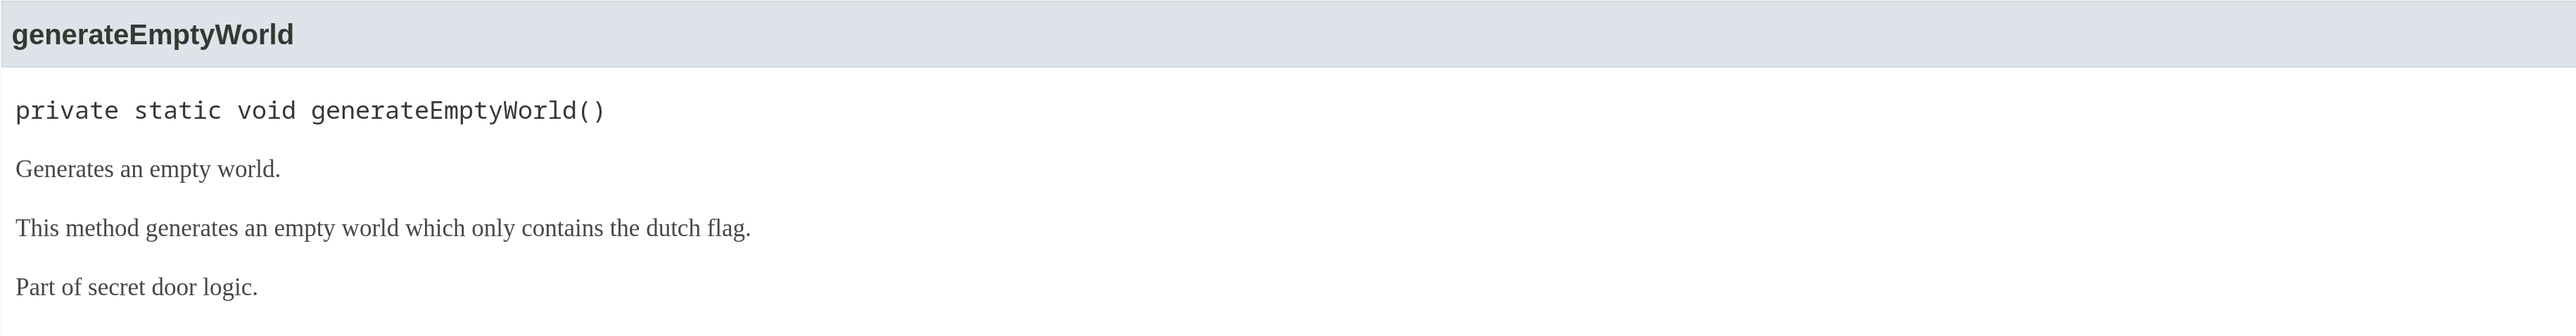
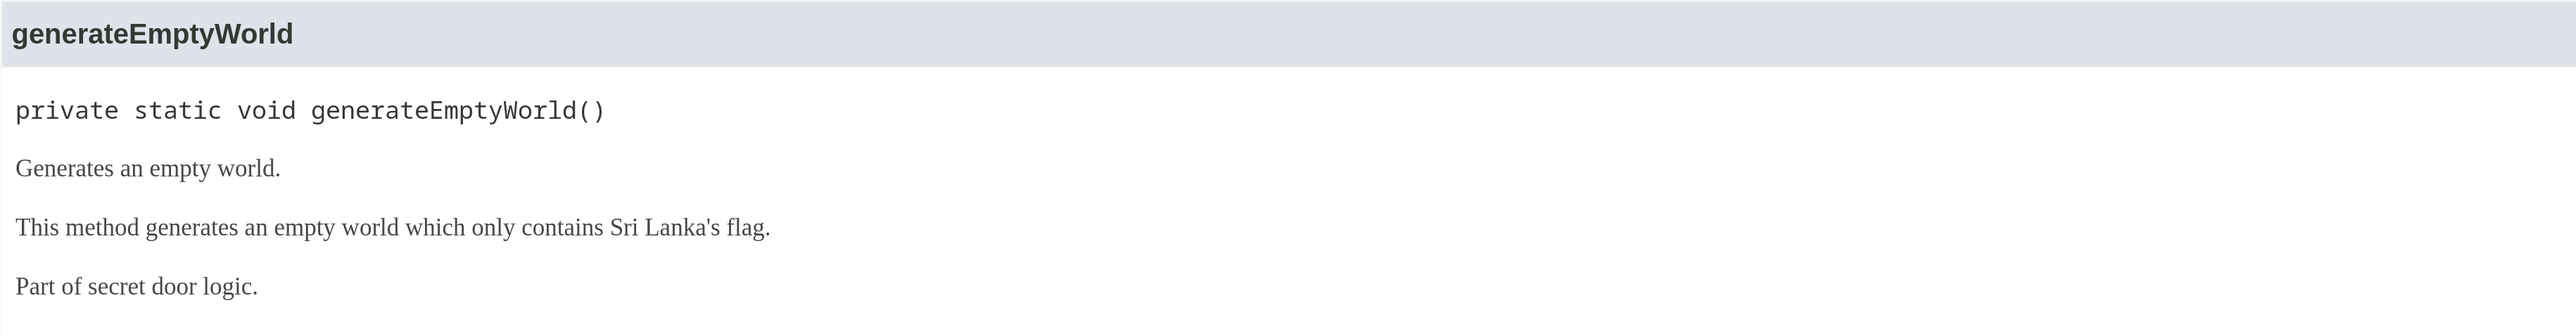
Update docs

diff --git a/um-submission/docs/html/JavaCraft.html b/um-submission/docs/html/JavaCraft.html
@@ -1,7 +1,7 @@
 <!DOCTYPE HTML>
 <html lang="en">
 <head>
-<!-- Generated by javadoc (21) on Sun Oct 22 16:06:30 CEST 2023 -->
+<!-- Generated by javadoc (21) on Sun Oct 22 17:34:51 CEST 2023 -->
 <title>JavaCraft</title>
 <meta name="viewport" content="width=device-width, initial-scale=1">
 <meta http-equiv="Content-Type" content="text/html; charset=utf-8">
@@ -90,6 +90,7 @@ loadScripts(document, 'script');</script>
 <hr>
 <div class="type-signature"><span class="modifiers">public class </span><span class="element-name type-name-label">JavaCraft</span>
 <span class="extends-implements">extends <a href="https://docs.oracle.com/en/java/javase/21/docs/api/java.base/java/lang/Object.html" title="class or interface in java.lang" class="external-link">Object</a></span></div>
+<div class="block">Main game class.</div>
 </section>
 <section class="summary">
 <ul class="summary-list">
@@ -1353,7 +1354,7 @@ loadScripts(document, 'script');</script>
 <div class="member-signature"><span class="modifiers">private static</span>&nbsp;<span class="return-type">void</span>&nbsp;<span class="element-name">generateEmptyWorld</span>()</div>
 <div class="block">Generates an empty world.
  <p>
- This method generates an empty world which only contains the dutch flag.
+ This method generates an empty world which only contains Sri Lanka's flag.
  <p>
  Part of secret door logic.</div>
 </section>

diff --git a/um-submission/docs/html/allclasses-index.html b/um-submission/docs/html/allclasses-index.html
@@ -1,7 +1,7 @@
 <!DOCTYPE HTML>
 <html lang="en">
 <head>
-<!-- Generated by javadoc (21) on Sun Oct 22 16:06:30 CEST 2023 -->
+<!-- Generated by javadoc (21) on Sun Oct 22 17:34:51 CEST 2023 -->
 <title>All Classes and Interfaces</title>
 <meta name="viewport" content="width=device-width, initial-scale=1">
 <meta http-equiv="Content-Type" content="text/html; charset=utf-8">
@@ -55,7 +55,9 @@ loadScripts(document, 'script');</script>
 <div class="table-header col-first">Class</div>
 <div class="table-header col-last">Description</div>
 <div class="col-first even-row-color all-classes-table all-classes-table-tab2"><a href="JavaCraft.html" title="class in Unnamed Package">JavaCraft</a></div>
-<div class="col-last even-row-color all-classes-table all-classes-table-tab2">&nbsp;</div>
+<div class="col-last even-row-color all-classes-table all-classes-table-tab2">
+<div class="block">Main game class.</div>
+</div>
 </div>
 </div>
 </main>

diff --git a/um-submission/docs/html/index-all.html b/um-submission/docs/html/index-all.html
@@ -1,7 +1,7 @@
 <!DOCTYPE HTML>
 <html lang="en">
 <head>
-<!-- Generated by javadoc (21) on Sun Oct 22 16:06:30 CEST 2023 -->
+<!-- Generated by javadoc (21) on Sun Oct 22 17:34:51 CEST 2023 -->
 <title>Index</title>
 <meta name="viewport" content="width=device-width, initial-scale=1">
 <meta http-equiv="Content-Type" content="text/html; charset=utf-8">
@@ -325,7 +325,9 @@ loadScripts(document, 'script');</script>
 <h2 class="title" id="I:J">J</h2>
 <dl class="index">
 <dt><a href="JavaCraft.html" class="type-name-link" title="class in Unnamed Package">JavaCraft</a> - Class in <a href="package-summary.html">Unnamed Package</a></dt>
-<dd>&nbsp;</dd>
+<dd>
+<div class="block">Main game class.</div>
+</dd>
 <dt><a href="JavaCraft.html#%3Cinit%3E()" class="member-name-link">JavaCraft()</a> - Constructor for class <a href="JavaCraft.html" title="class in Unnamed Package">JavaCraft</a></dt>
 <dd>&nbsp;</dd>
 </dl>

diff --git a/um-submission/docs/html/package-summary.html b/um-submission/docs/html/package-summary.html
@@ -1,7 +1,7 @@
 <!DOCTYPE HTML>
 <html lang="en">
 <head>
-<!-- Generated by javadoc (21) on Sun Oct 22 16:06:30 CEST 2023 -->
+<!-- Generated by javadoc (21) on Sun Oct 22 17:34:51 CEST 2023 -->
 <title>Unnamed Package</title>
 <meta name="viewport" content="width=device-width, initial-scale=1">
 <meta http-equiv="Content-Type" content="text/html; charset=utf-8">
@@ -76,7 +76,9 @@ loadScripts(document, 'script');</script>
 <div class="table-header col-first">Class</div>
 <div class="table-header col-last">Description</div>
 <div class="col-first even-row-color class-summary class-summary-tab2"><a href="JavaCraft.html" title="class in Unnamed Package">JavaCraft</a></div>
-<div class="col-last even-row-color class-summary class-summary-tab2">&nbsp;</div>
+<div class="col-last even-row-color class-summary class-summary-tab2">
+<div class="block">Main game class.</div>
+</div>
 </div>
 </div>
 </li>

diff --git a/um-submission/docs/html/index.html b/um-submission/docs/html/index.html
@@ -1,7 +1,7 @@
 <!DOCTYPE HTML>
 <html lang="en">
 <head>
-<!-- Generated by javadoc (21) on Sun Oct 22 16:06:30 CEST 2023 -->
+<!-- Generated by javadoc (21) on Sun Oct 22 17:34:51 CEST 2023 -->
 <title>Generated Documentation (Untitled)</title>
 <meta name="viewport" content="width=device-width, initial-scale=1">
 <meta http-equiv="Content-Type" content="text/html; charset=utf-8">

diff --git a/um-submission/docs/html/constant-values.html b/um-submission/docs/html/constant-values.html
@@ -1,7 +1,7 @@
 <!DOCTYPE HTML>
 <html lang="en">
 <head>
-<!-- Generated by javadoc (21) on Sun Oct 22 16:06:30 CEST 2023 -->
+<!-- Generated by javadoc (21) on Sun Oct 22 17:34:51 CEST 2023 -->
 <title>Constant Field Values</title>
 <meta name="viewport" content="width=device-width, initial-scale=1">
 <meta http-equiv="Content-Type" content="text/html; charset=utf-8">

diff --git a/um-submission/docs/html/package-tree.html b/um-submission/docs/html/package-tree.html
@@ -1,7 +1,7 @@
 <!DOCTYPE HTML>
 <html lang="en">
 <head>
-<!-- Generated by javadoc (21) on Sun Oct 22 16:06:30 CEST 2023 -->
+<!-- Generated by javadoc (21) on Sun Oct 22 17:34:51 CEST 2023 -->
 <title> Class Hierarchy</title>
 <meta name="viewport" content="width=device-width, initial-scale=1">
 <meta http-equiv="Content-Type" content="text/html; charset=utf-8">

diff --git a/um-submission/docs/html/overview-tree.html b/um-submission/docs/html/overview-tree.html
@@ -1,7 +1,7 @@
 <!DOCTYPE HTML>
 <html lang="en">
 <head>
-<!-- Generated by javadoc (21) on Sun Oct 22 16:06:30 CEST 2023 -->
+<!-- Generated by javadoc (21) on Sun Oct 22 17:34:51 CEST 2023 -->
 <title>Class Hierarchy</title>
 <meta name="viewport" content="width=device-width, initial-scale=1">
 <meta http-equiv="Content-Type" content="text/html; charset=utf-8">

diff --git a/um-submission/docs/html/allpackages-index.html b/um-submission/docs/html/allpackages-index.html
@@ -1,7 +1,7 @@
 <!DOCTYPE HTML>
 <html lang="en">
 <head>
-<!-- Generated by javadoc (21) on Sun Oct 22 16:06:30 CEST 2023 -->
+<!-- Generated by javadoc (21) on Sun Oct 22 17:34:51 CEST 2023 -->
 <title>All Packages</title>
 <meta name="viewport" content="width=device-width, initial-scale=1">
 <meta http-equiv="Content-Type" content="text/html; charset=utf-8">

diff --git a/um-submission/docs/html/help-doc.html b/um-submission/docs/html/help-doc.html
@@ -1,7 +1,7 @@
 <!DOCTYPE HTML>
 <html lang="en">
 <head>
-<!-- Generated by javadoc (21) on Sun Oct 22 16:06:30 CEST 2023 -->
+<!-- Generated by javadoc (21) on Sun Oct 22 17:34:51 CEST 2023 -->
 <title>API Help</title>
 <meta name="viewport" content="width=device-width, initial-scale=1">
 <meta http-equiv="Content-Type" content="text/html; charset=utf-8">

diff --git a/um-submission/docs/html/search.html b/um-submission/docs/html/search.html
@@ -1,7 +1,7 @@
 <!DOCTYPE HTML>
 <html lang="en">
 <head>
-<!-- Generated by javadoc (21) on Sun Oct 22 16:06:30 CEST 2023 -->
+<!-- Generated by javadoc (21) on Sun Oct 22 17:34:51 CEST 2023 -->
 <title>Search</title>
 <meta name="viewport" content="width=device-width, initial-scale=1">
 <meta http-equiv="Content-Type" content="text/html; charset=utf-8">

diff --git a/JavaCraft.java b/JavaCraft.java
@@ -766,7 +766,7 @@ public class JavaCraft {
     /**
      * Generates an empty world.
      * <p>
-     * This method generates an empty world which only contains the dutch flag.
+     * This method generates an empty world which only contains Sri Lanka's flag.
      * <p>
      * Part of secret door logic.
      */
